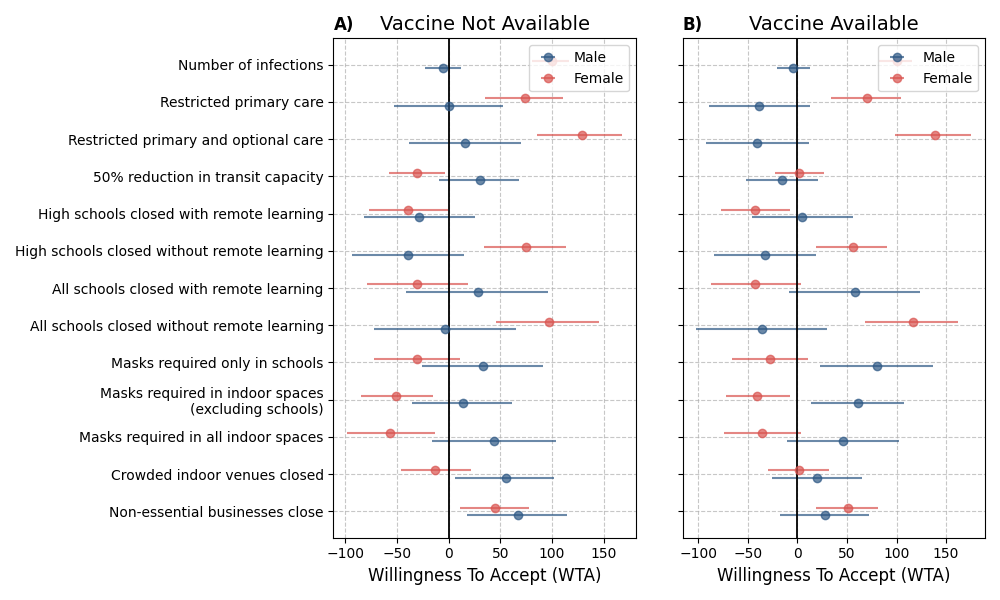
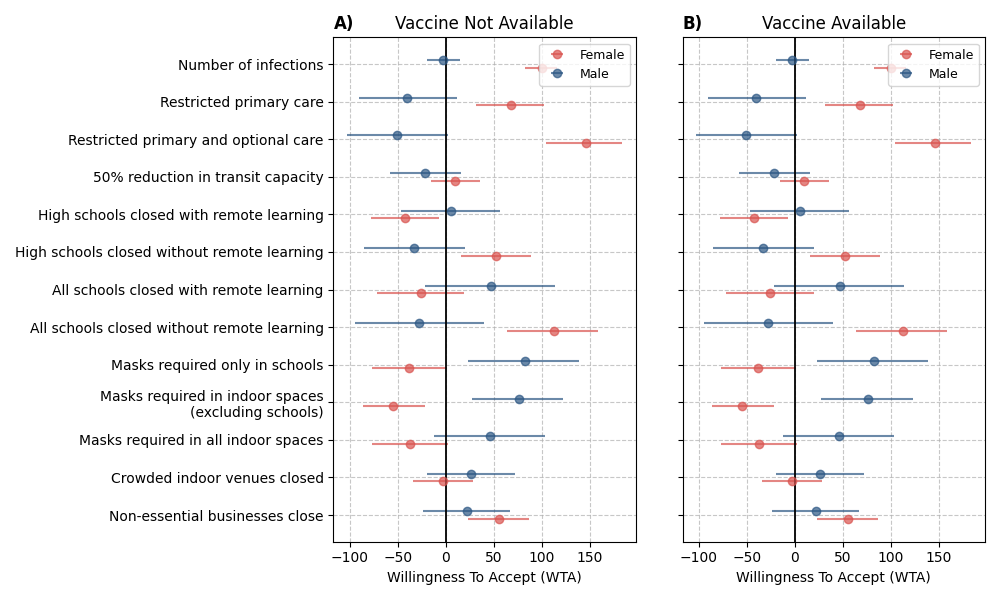
dealt with missing labels

diff --git a/main_fig.py b/main_fig.py
@@ -27,10 +27,10 @@ def do_main_figure():
     # read wta estimates along with confidence intervals
     wtp_vaccine, wtp_errs_vaccine = get_wtas_and_errs(
         table=results_vaccine,
-        attribute_keys=DICT_COEFF_LABELS.keys())
+        attribute_keys=DICT_WTA_LABELS.keys())
     wtp_no_vaccine, wtp_errs_no_vaccine = get_wtas_and_errs(
         table=results_no_vaccine,
-        attribute_keys=DICT_COEFF_LABELS.keys())
+        attribute_keys=DICT_WTA_LABELS.keys())
 
     # plot
     fig, ax = plt.subplots(1, 2, figsize=FIG_SIZE, sharey=True)

diff --git a/one_subgroup.py b/one_subgroup.py
@@ -9,7 +9,7 @@ if __name__ == '__main__':
         do_fig_by_group(
             estimate_type=estimate_type,
             group_name='gender',
-            group_categories=['Male', 'Female'],
-            group_colors = ['#2C5784', '#D9534F'],
+            group_categories=['Female', 'Male'],
+            group_colors = ['#D9534F', '#2C5784'],
             distance_between_bars=0.2,
             fig_size=FIG_SIZE)
